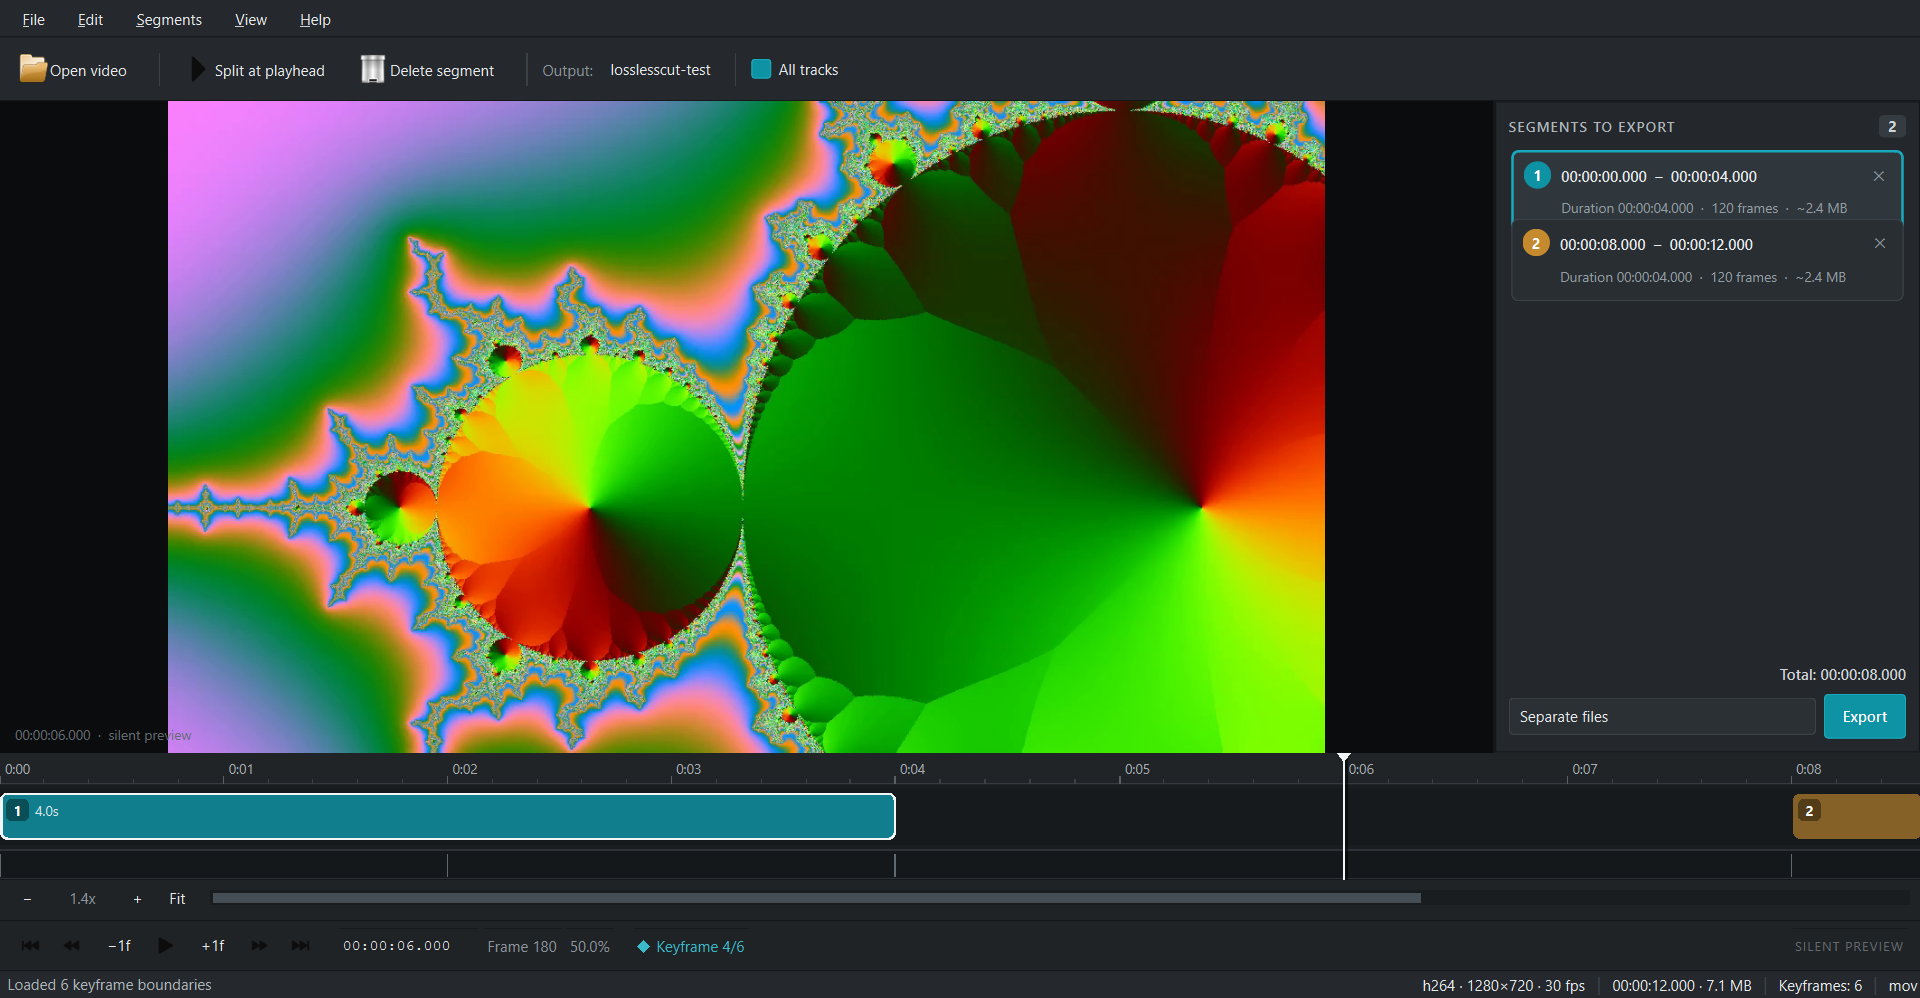
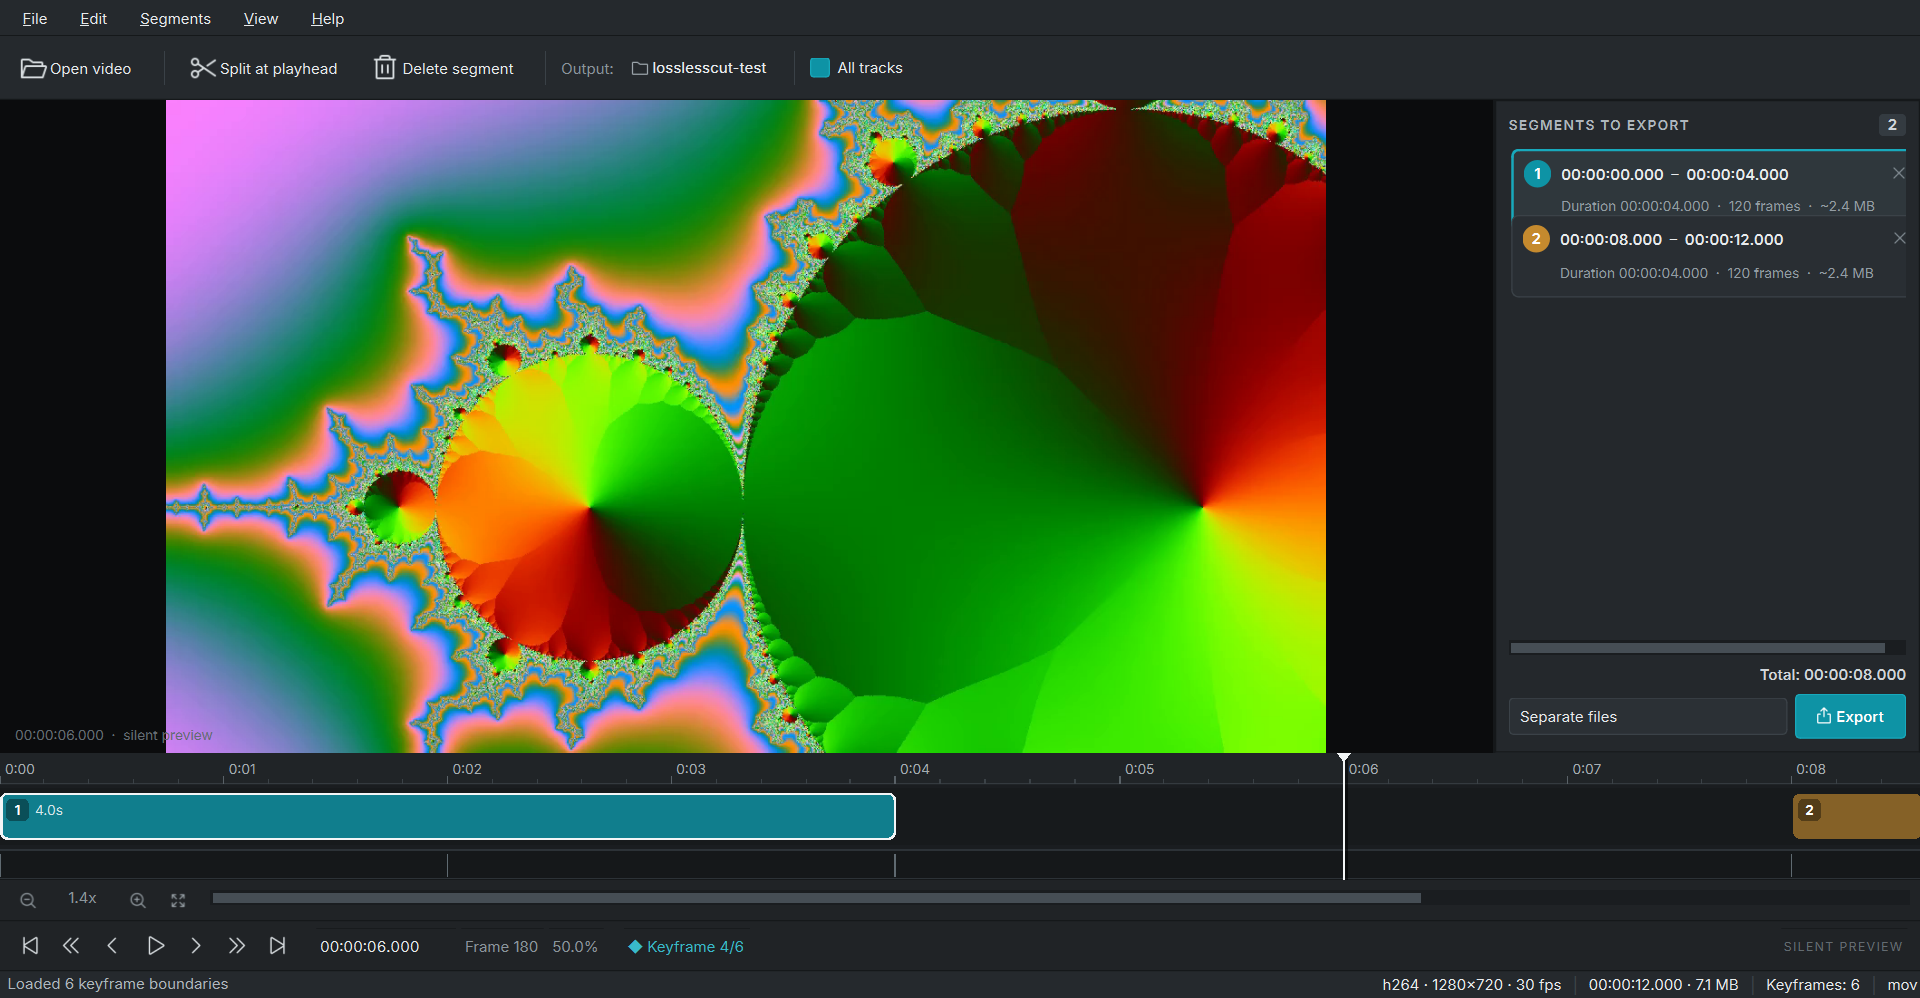
test/docs: validate bundled assets and refresh screenshot

diff --git a/tests/test_assets.py b/tests/test_assets.py
@@ -1,0 +1,30 @@
+from __future__ import annotations
+
+import pytest
+from PySide6.QtGui import QFontDatabase, QIcon
+
+from losslesscut.icons import ICON_FILES, icon
+from losslesscut.theme import load_fonts
+
+
+def test_inter_font_is_bundled(qapp) -> None:
+    family = load_fonts()
+    assert family == "Inter"
+    assert "Inter" in QFontDatabase.families()
+
+
+@pytest.mark.parametrize("name", sorted(ICON_FILES))
+def test_phosphor_icon_renders(qapp, name: str) -> None:
+    rendered = icon(name)
+    assert isinstance(rendered, QIcon)
+    assert not rendered.isNull()
+    pixmap = rendered.pixmap(20, 20)
+    assert not pixmap.isNull()
+    assert pixmap.width() == 20
+    disabled = rendered.pixmap(20, 20, QIcon.Mode.Disabled)
+    assert not disabled.isNull()
+
+
+def test_unknown_icon_name_raises() -> None:
+    with pytest.raises(KeyError):
+        icon("not-a-real-icon")

diff --git a/tests/test_ui_smoke.py b/tests/test_ui_smoke.py
@@ -48,6 +48,10 @@ def test_main_window_smoke(qtbot, monkeypatch, tmp_path: Path, sample_media) -> 
     window.show()
     assert window.windowTitle() == "LosslessCut"
     assert not window.export_action.isEnabled()
+    assert not window.play_button.icon().isNull()
+    assert not window.split_action.icon().isNull()
+    assert not window.export_action.icon().isNull()
+    assert not window.open_action.icon().isNull()
 
     window.media = sample_media
     window.keyframes = list(sample_media.keyframes)

diff --git a/README.md b/README.md
@@ -22,6 +22,17 @@ ffmpeg.
 - Silent, frame-accurate preview decoded by ffmpeg. Works with any codec ffmpeg can decode.
 - Background metadata/keyframe scanning, real export progress and cancellation.
 
+## Bundled assets
+
+The application ships its visual assets so it works fully offline:
+
+- [Inter](https://github.com/rsms/inter) 4.1 for the UI typography (SIL Open Font License 1.1).
+- [Phosphor Icons](https://github.com/phosphor-icons/core) 2.0.8 regular weight for the
+  interface icons (MIT).
+
+Versions and licenses are documented in `src/losslesscut/assets/README.md`.
+`scripts/fetch_assets.py` refreshes the pinned assets.
+
 ## Requirements
 
 - Python 3.12+
@@ -132,7 +143,9 @@ file that ffmpeg can read can be previewed even if the operating system cannot p
 ```text
 src/losslesscut/
   app.py            application entry point
-  theme.py          dark Fusion palette and stylesheet
+  theme.py          dark Fusion palette, Inter font and stylesheet
+  icons.py          Phosphor SVG loading, recolouring and caching
+  assets/           bundled Inter fonts, Phosphor icons and licenses
   models.py         media/segment models, timecode and snapping helpers
   ffmpeg_utils.py   binary discovery and subprocess helpers
   ffprobe.py        metadata and keyframe discovery
@@ -142,6 +155,8 @@ src/losslesscut/
   exporter.py       lossless cut/merge jobs with progress and cancel
   workers.py        background probe workers
   main_window.py    window, menus, drag and drop, export flow
+scripts/
+  fetch_assets.py   downloads the pinned font and icon assets
 tests/              unit, ffmpeg integration and Qt smoke tests
 ```
 
